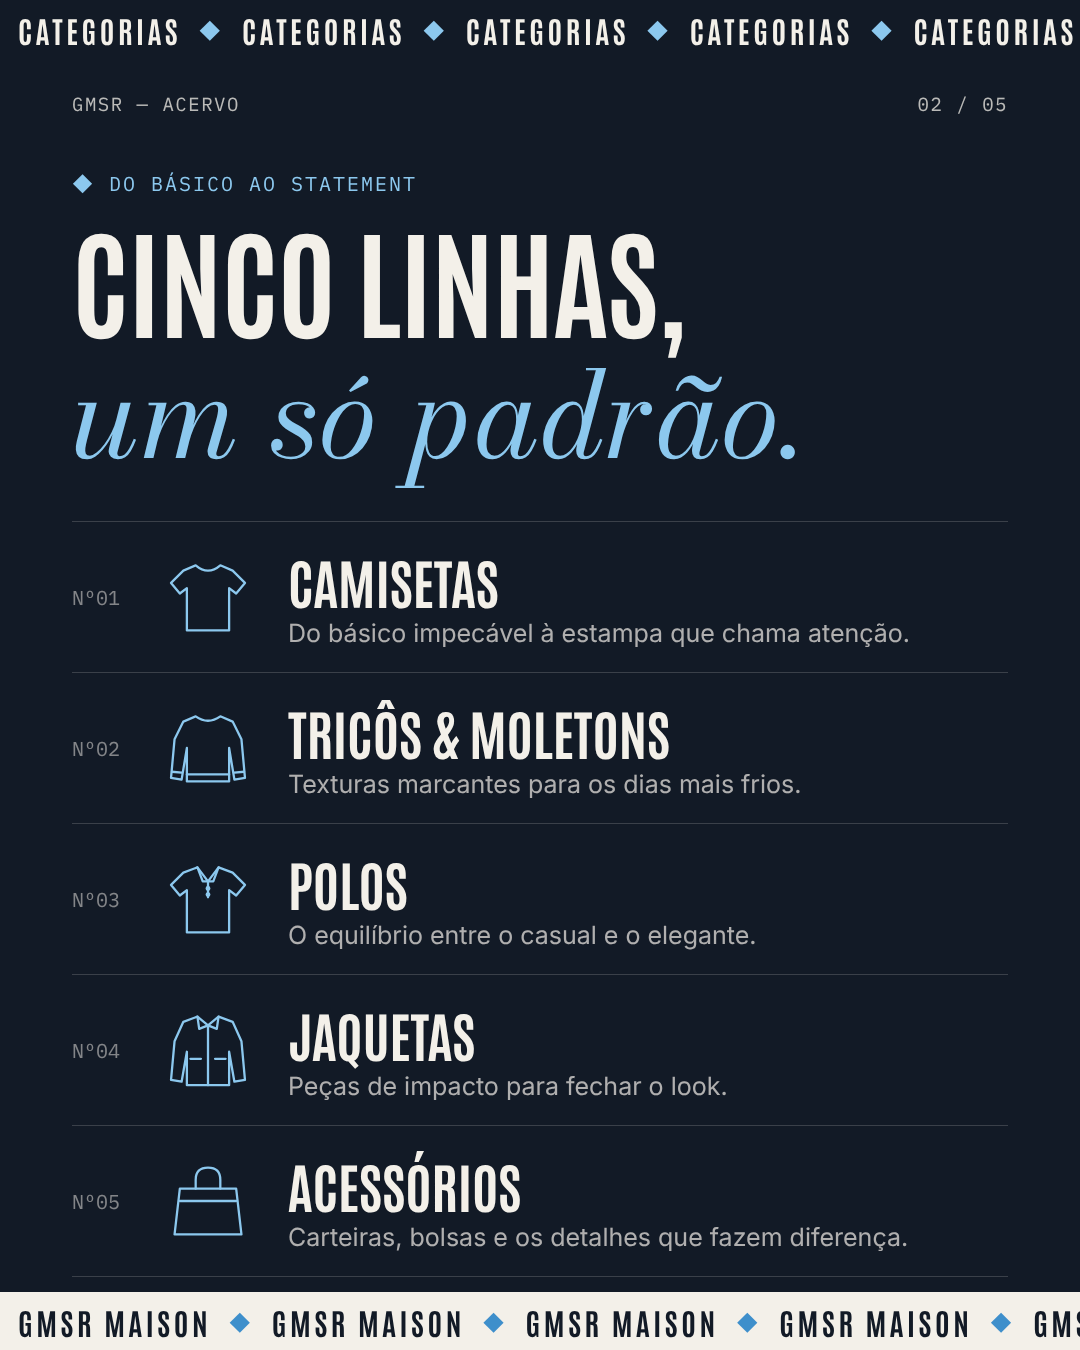
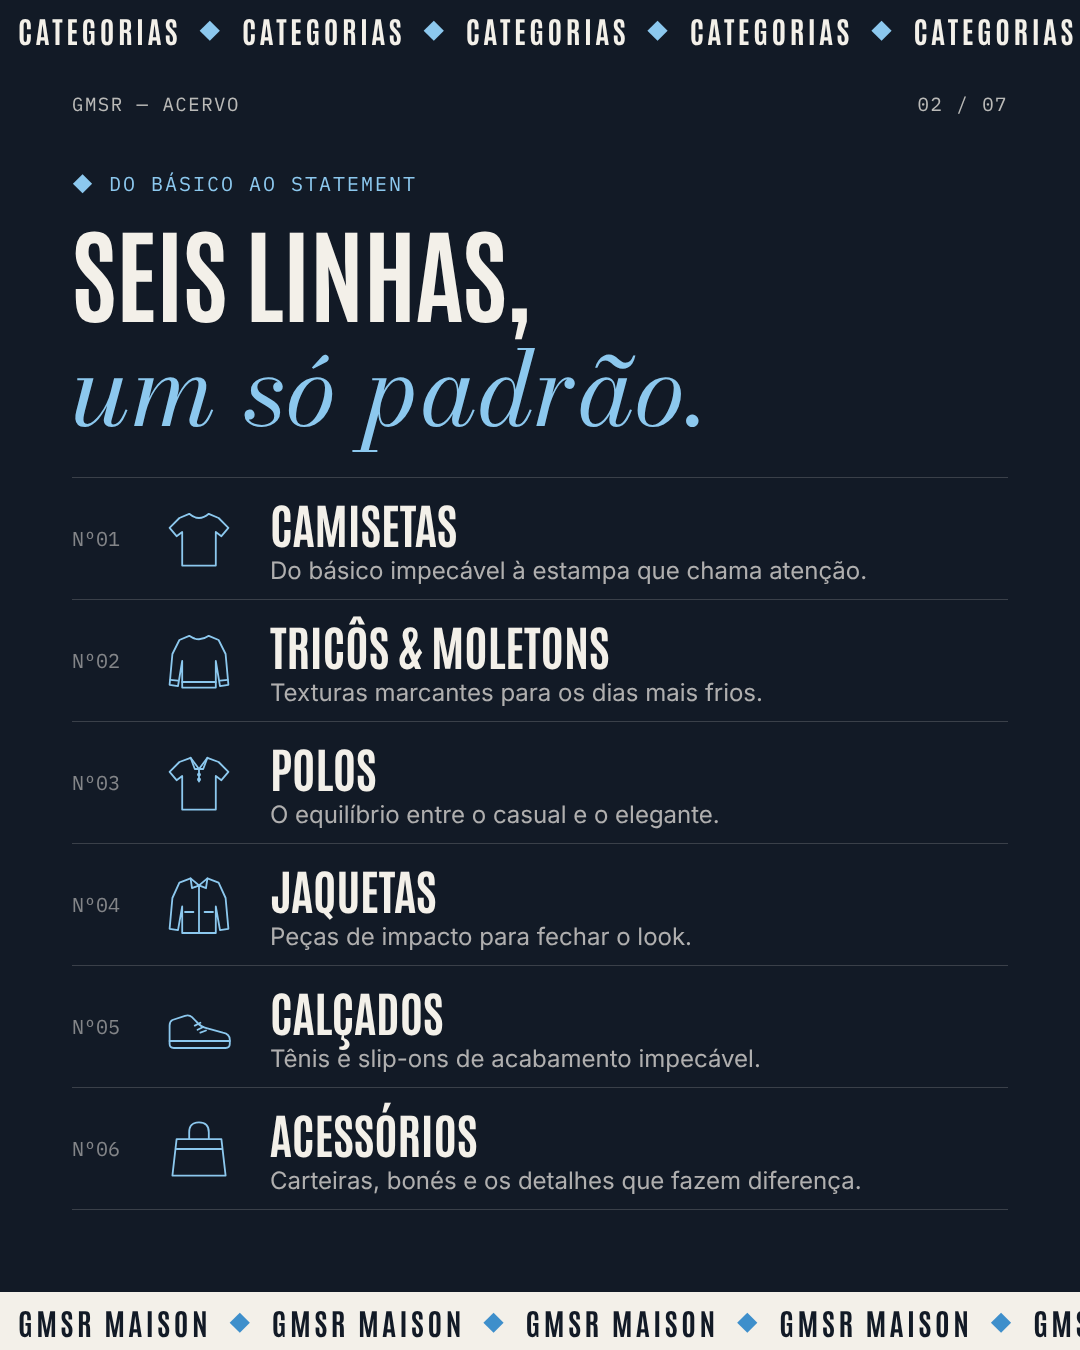
Post 03: adiciona grifes com origem e categoria de calçados
- Dois slides novos com as grifes do acervo: Paris (Louis Vuitton, Saint Laurent,
  Maison Margiela, AMI Paris) e mundo (Zegna, Loro Piana, Moncler, Ralph Lauren,
  Comme des Garçons Play, Amiri, Nude Project), com cidade, país e ano de fundação
- Categoria Calçados nas linhas do acervo
- Legenda atualizada com as grifes e tabela da pesquisa

Claude-Session: https://claude.ai/code/session_018Rxm36svjxPgU3W8TLCnbb

diff --git a/posts/03-produtos/slides.html b/posts/03-produtos/slides.html
@@ -10,8 +10,8 @@
   .cover .content{justify-content:center}
   .cover h1{font-size:168px;color:var(--paper);line-height:.95}
   .cover h2{font-size:74px;color:var(--ink);margin-top:10px}
-  .cover .icons{display:flex;gap:30px;color:var(--paper);margin-top:64px}
-  .cover .icons svg.ic{width:120px;height:120px;stroke-width:2.2}
+  .cover .icons{display:flex;gap:22px;color:var(--paper);margin-top:64px}
+  .cover .icons svg.ic{width:112px;height:112px;stroke-width:2.2}
   .cover .swipe{margin-top:64px;color:var(--paper)}
 
   .cat h1{font-size:120px;margin-top:20px}
@@ -22,6 +22,31 @@
   .cat .row .n{font-family:Mono;font-size:20px;color:rgba(243,240,233,.5);width:56px}
   .cat .row h3{font-family:Antonio;font-weight:700;font-size:54px;text-transform:uppercase}
   .cat .row p{font-size:25px;color:rgba(243,240,233,.7);margin-top:2px}
+
+  .cat .row{padding:14px 0}
+  .cat .row .ic{width:70px;height:70px}
+  .cat h1{font-size:104px}
+  .cat .list{margin-top:36px}
+  .cat .row h3{font-size:48px}
+  .cat .row p{font-size:24px}
+
+  .brands h1{font-size:118px;margin-top:16px}
+  .brands .list{margin-top:40px}
+  .brands .b{display:flex;align-items:center;justify-content:space-between;gap:30px;border-top:1px solid var(--line)}
+  .brands .b:last-child{border-bottom:1px solid var(--line)}
+  .brands .b .name{font-family:Antonio;font-weight:700;text-transform:uppercase;letter-spacing:.01em;line-height:1.05}
+  .brands .b .where{font-family:Mono;font-size:19px;letter-spacing:.1em;text-transform:uppercase;color:var(--sky);margin-top:6px}
+  .brands .b .item{font-size:23px;color:rgba(243,240,233,.65);margin-top:4px}
+  .brands .b .year{font-family:Antonio;font-weight:700;color:transparent;-webkit-text-stroke:1.6px rgba(243,240,233,.55);flex:none}
+  .brands.paris .b{padding:26px 0}
+  .brands.paris .b .name{font-size:66px}
+  .brands.paris .b .year{font-size:96px}
+  .brands.world .b{padding:13px 0}
+  .brands.world .b .name{font-size:44px}
+  .brands.world .b .where{font-size:17px;margin-top:2px}
+  .brands.world .b .item{font-size:20px;margin-top:2px}
+  .brands.world .b .year{font-size:62px}
+  .brands .flag{font-family:Mono;font-size:18px;letter-spacing:.1em;color:rgba(243,240,233,.5);margin-top:18px}
 
   .real h1{font-size:150px;margin-top:20px}
   .real .frame{margin-top:50px;height:430px;position:relative;border:10px solid var(--paper);
@@ -58,6 +83,7 @@
     <g id="i-knit"><path d="M36 14 L22 20 L12 40 L8 84 L20 86 L26 50 L26 88 L74 88 L74 50 L80 86 L92 84 L88 40 L78 20 L64 14 Q50 24 36 14 Z"/><path d="M26 80 L74 80 M20 78 L9 77 M80 78 L91 77"/></g>
     <g id="i-polo"><path d="M38 14 L22 20 L8 34 L18 46 L26 40 L26 88 L74 88 L74 40 L82 46 L92 34 L78 20 L62 14 L50 30 Z"/><path d="M38 14 L44 30 L50 30 L56 30 L62 14 M50 30 L50 48"/><circle cx="50" cy="38" r="1.5"/><circle cx="50" cy="45" r="1.5"/></g>
     <g id="i-jacket"><path d="M38 12 L22 18 L12 40 L8 84 L20 86 L26 52 L26 90 L74 90 L74 52 L80 86 L92 84 L88 40 L78 18 L62 12 L50 22 Z"/><path d="M50 22 L50 90 M38 12 L40 26 L50 22 L60 26 L62 12 M30 60 L42 60 M58 60 L70 60"/></g>
+    <g id="i-shoe"><path d="M8 58 L8 74 Q8 80 14 80 L88 80 Q94 80 94 74 L94 68 Q94 60 84 58 L62 52 Q52 50 46 42 L40 36 Q36 32 30 34 L12 40 Q8 42 8 48 Z"/><path d="M8 70 L94 70 M44 48 L52 44 M48 54 L56 50 M52 58 L60 55"/></g>
     <g id="i-bag"><path d="M18 36 L82 36 L88 88 L12 88 Z"/><path d="M36 36 L36 26 Q36 12 50 12 Q64 12 64 26 L64 36"/><path d="M18 50 L82 50"/></g>
   </defs>
 </svg>
@@ -75,6 +101,7 @@
       <svg class="ic" viewBox="0 0 100 100"><use href="#i-knit"/></svg>
       <svg class="ic" viewBox="0 0 100 100"><use href="#i-polo"/></svg>
       <svg class="ic" viewBox="0 0 100 100"><use href="#i-jacket"/></svg>
+      <svg class="ic" viewBox="0 0 100 100"><use href="#i-shoe"/></svg>
       <svg class="ic" viewBox="0 0 100 100"><use href="#i-bag"/></svg>
     </div>
     <div class="swipe">Confira ao lado
@@ -91,19 +118,59 @@
   <div class="meta tr counter"></div>
   <div class="content cat">
     <p class="small accent" style="margin-top:20px">◆ Do básico ao statement</p>
-    <h1 class="display">Cinco linhas,<br><span class="serif accent">um só padrão.</span></h1>
+    <h1 class="display">Seis linhas,<br><span class="serif accent">um só padrão.</span></h1>
     <div class="list">
       <div class="row"><span class="n">Nº01</span><svg class="ic" viewBox="0 0 100 100"><use href="#i-tee"/></svg><div><h3>Camisetas</h3><p>Do básico impecável à estampa que chama atenção.</p></div></div>
       <div class="row"><span class="n">Nº02</span><svg class="ic" viewBox="0 0 100 100"><use href="#i-knit"/></svg><div><h3>Tricôs &amp; Moletons</h3><p>Texturas marcantes para os dias mais frios.</p></div></div>
       <div class="row"><span class="n">Nº03</span><svg class="ic" viewBox="0 0 100 100"><use href="#i-polo"/></svg><div><h3>Polos</h3><p>O equilíbrio entre o casual e o elegante.</p></div></div>
       <div class="row"><span class="n">Nº04</span><svg class="ic" viewBox="0 0 100 100"><use href="#i-jacket"/></svg><div><h3>Jaquetas</h3><p>Peças de impacto para fechar o look.</p></div></div>
-      <div class="row"><span class="n">Nº05</span><svg class="ic" viewBox="0 0 100 100"><use href="#i-bag"/></svg><div><h3>Acessórios</h3><p>Carteiras, bolsas e os detalhes que fazem diferença.</p></div></div>
+      <div class="row"><span class="n">Nº05</span><svg class="ic" viewBox="0 0 100 100"><use href="#i-shoe"/></svg><div><h3>Calçados</h3><p>Tênis e slip-ons de acabamento impecável.</p></div></div>
+      <div class="row"><span class="n">Nº06</span><svg class="ic" viewBox="0 0 100 100"><use href="#i-bag"/></svg><div><h3>Acessórios</h3><p>Carteiras, bonés e os detalhes que fazem diferença.</p></div></div>
     </div>
   </div>
   <div class="ticker bottom"></div>
 </section>
 
-<!-- 03 · FOTO REAL -->
+<!-- 03 · GRIFES DE PARIS -->
+<section class="slide has-ticker-bottom">
+  <div class="ticker top dark" data-text="AS GRIFES"></div>
+  <div class="meta tl">GMSR — Grifes · I</div>
+  <div class="meta tr counter"></div>
+  <div class="content brands paris">
+    <p class="small accent" style="margin-top:20px">◆ As grifes da maison · França</p>
+    <h1 class="display">Direto de<br><span class="serif accent">Paris.</span></h1>
+    <div class="list">
+      <div class="b"><div><div class="name">Louis Vuitton</div><div class="where">Paris · França</div><div class="item">No acervo: carteira Damier</div></div><div class="year">1854</div></div>
+      <div class="b"><div><div class="name">Saint Laurent</div><div class="where">Paris · França</div><div class="item">No acervo: tricô com assinatura</div></div><div class="year">1961</div></div>
+      <div class="b"><div><div class="name">Maison Margiela</div><div class="where">Paris · França</div><div class="item">No acervo: camiseta Numbers</div></div><div class="year">1988</div></div>
+      <div class="b"><div><div class="name">AMI Paris</div><div class="where">Paris · França</div><div class="item">No acervo: camiseta Ami de Coeur</div></div><div class="year">2011</div></div>
+    </div>
+  </div>
+  <div class="ticker bottom"></div>
+</section>
+
+<!-- 04 · GRIFES DO MUNDO -->
+<section class="slide navy has-ticker-bottom">
+  <div class="ticker top dark" data-text="AS GRIFES"></div>
+  <div class="meta tl">GMSR — Grifes · II</div>
+  <div class="meta tr counter"></div>
+  <div class="content brands world">
+    <p class="small accent" style="margin-top:20px">◆ As grifes da maison · Mundo</p>
+    <h1 class="display" style="font-size:104px">De Milão <span class="serif accent">a Tóquio.</span></h1>
+    <div class="list">
+      <div class="b"><div><div class="name">Zegna</div><div class="where">Trivero · Itália</div><div class="item">Tênis Triple Stitch</div></div><div class="year">1910</div></div>
+      <div class="b"><div><div class="name">Loro Piana</div><div class="where">Quarona · Itália</div><div class="item">Boné</div></div><div class="year">1924</div></div>
+      <div class="b"><div><div class="name">Moncler</div><div class="where">Nasceu na França · hoje em Milão</div><div class="item">Camiseta e jaqueta em tricô com nylon</div></div><div class="year">1952</div></div>
+      <div class="b"><div><div class="name">Ralph Lauren</div><div class="where">Nova York · EUA</div><div class="item">Polo RLX Polo Bear</div></div><div class="year">1967</div></div>
+      <div class="b"><div><div class="name">Comme des Garçons Play</div><div class="where">Tóquio · Japão</div><div class="item">Camiseta Double Heart</div></div><div class="year">2002</div></div>
+      <div class="b"><div><div class="name">Amiri</div><div class="where">Los Angeles · EUA</div><div class="item">Camiseta Arts &amp; Crafts</div></div><div class="year">2014</div></div>
+      <div class="b"><div><div class="name">Nude Project</div><div class="where">Barcelona · Espanha</div><div class="item">Camiseta</div></div><div class="year">2019</div></div>
+    </div>
+  </div>
+  <div class="ticker bottom"></div>
+</section>
+
+<!-- 05 · FOTO REAL -->
 <section class="slide navy has-ticker-bottom">
   <div class="ticker top dark" data-text="FOTO REAL"></div>
   <div class="meta tl">GMSR — Transparência</div>
@@ -125,7 +192,7 @@
   <div class="ticker bottom"></div>
 </section>
 
-<!-- 04 · ENCOMENDAS -->
+<!-- 06 · ENCOMENDAS -->
 <section class="slide has-ticker-bottom">
   <div class="ticker top dark" data-text="ENCOMENDAS"></div>
   <div class="ghost" style="bottom:60px">PROCURA PROCURA</div>
@@ -143,7 +210,7 @@
   <div class="ticker bottom"></div>
 </section>
 
-<!-- 05 · CTA -->
+<!-- 07 · CTA -->
 <section class="slide backdrop cta has-ticker-bottom">
   <div class="meta tl" style="color:var(--paper)">GMSR Maison</div>
   <div class="meta tr counter" style="color:var(--paper)"></div>

diff --git a/posts/03-produtos/legenda.md b/posts/03-produtos/legenda.md
@@ -1,7 +1,7 @@
 # Post 03 · Nossos produtos
 
-**Formato:** carrossel, 5 slides (1080×1350)
-**Imagens:** `png/slide-01.png` … `png/slide-05.png`
+**Formato:** carrossel, 7 slides (1080×1350)
+**Imagens:** `png/slide-01.png` … `png/slide-07.png`
 **Sugestão:** fixar no topo do perfil.
 
 ---
@@ -14,7 +14,11 @@ O que você encontra na maison? ◆
 🧶 Tricôs e moletons: texturas marcantes para os dias frios
 👔 Polos: o equilíbrio entre o casual e o elegante
 🧥 Jaquetas: peças de impacto para fechar o look
-👜 Acessórios: carteiras, bolsas e os detalhes que fazem diferença
+👟 Calçados: tênis e slip-ons de acabamento impecável
+🧢 Acessórios: carteiras, bonés e os detalhes que fazem diferença
+
+🇫🇷 Direto de Paris: Louis Vuitton, Saint Laurent, Maison Margiela e AMI Paris
+🌍 De Milão a Tóquio: Zegna, Loro Piana, Moncler, Ralph Lauren, Comme des Garçons Play, Amiri e Nude Project
 
 📸 Foto real, sempre. Todas as peças são fotografadas por nós, no nosso fundo azul. Quer ver outro ângulo, as tags ou as medidas? É só pedir.
 
@@ -25,4 +29,22 @@ O que você encontra na maison? ◆
 .
 .
 .
-#gmsrmaison #boutique #modamasculina #pecasexclusivas #streetwearbrasil #outfitmasculino #tricot #camisetas #polo #acessorios
+#gmsrmaison #boutique #modamasculina #pecasexclusivas #streetwearbrasil #outfitmasculino #louisvuitton #saintlaurent #maisonmargiela #amiparis #zegna #loropiana #moncler #ralphlauren #commedesgarcons #amiri #nudeproject
+
+---
+
+## Fontes da pesquisa (origem das grifes)
+
+| Grife | Origem | Fundação | Peça no acervo |
+|---|---|---|---|
+| Louis Vuitton | Paris, França | 1854 | Carteira Damier |
+| Saint Laurent | Paris, França | 1961 | Tricô com assinatura |
+| Maison Margiela | Paris, França | 1988 | Camiseta Numbers |
+| AMI Paris | Paris, França | 2011 | Camiseta Ami de Coeur |
+| Zegna | Trivero, Itália | 1910 | Tênis Triple Stitch |
+| Loro Piana | Quarona, Itália | 1924 | Boné |
+| Moncler | Monestier-de-Clermont, França (sede atual em Milão) | 1952 | Camiseta e jaqueta em tricô com nylon |
+| Ralph Lauren | Nova York, EUA | 1967 | Polo RLX Polo Bear |
+| Comme des Garçons Play | Tóquio, Japão | 2002 (linha); a CDG é de 1969 | Camiseta Double Heart |
+| Amiri | Los Angeles, EUA | 2014 | Camiseta Arts & Crafts |
+| Nude Project | Barcelona, Espanha | 2019 (algumas fontes citam 2018) | Camiseta |

diff --git a/README.md b/README.md
@@ -10,7 +10,7 @@ Posts de Instagram da **GMSR Maison** ([@gmsr_maison](https://www.instagram.com/
 |---|------|--------|-------|
 | 01 | Sobre a marca | 5 | [`posts/01-sobre-a-marca`](posts/01-sobre-a-marca) |
 | 02 | Envio para todo o Brasil | 4 | [`posts/02-envio-todo-brasil`](posts/02-envio-todo-brasil) |
-| 03 | Nossos produtos | 5 | [`posts/03-produtos`](posts/03-produtos) |
+| 03 | Nossos produtos e grifes | 7 | [`posts/03-produtos`](posts/03-produtos) |
 
 Cada pasta tem:
 - `png/`: as imagens finais em 1080×1350 (4:5), prontas para postar em ordem
